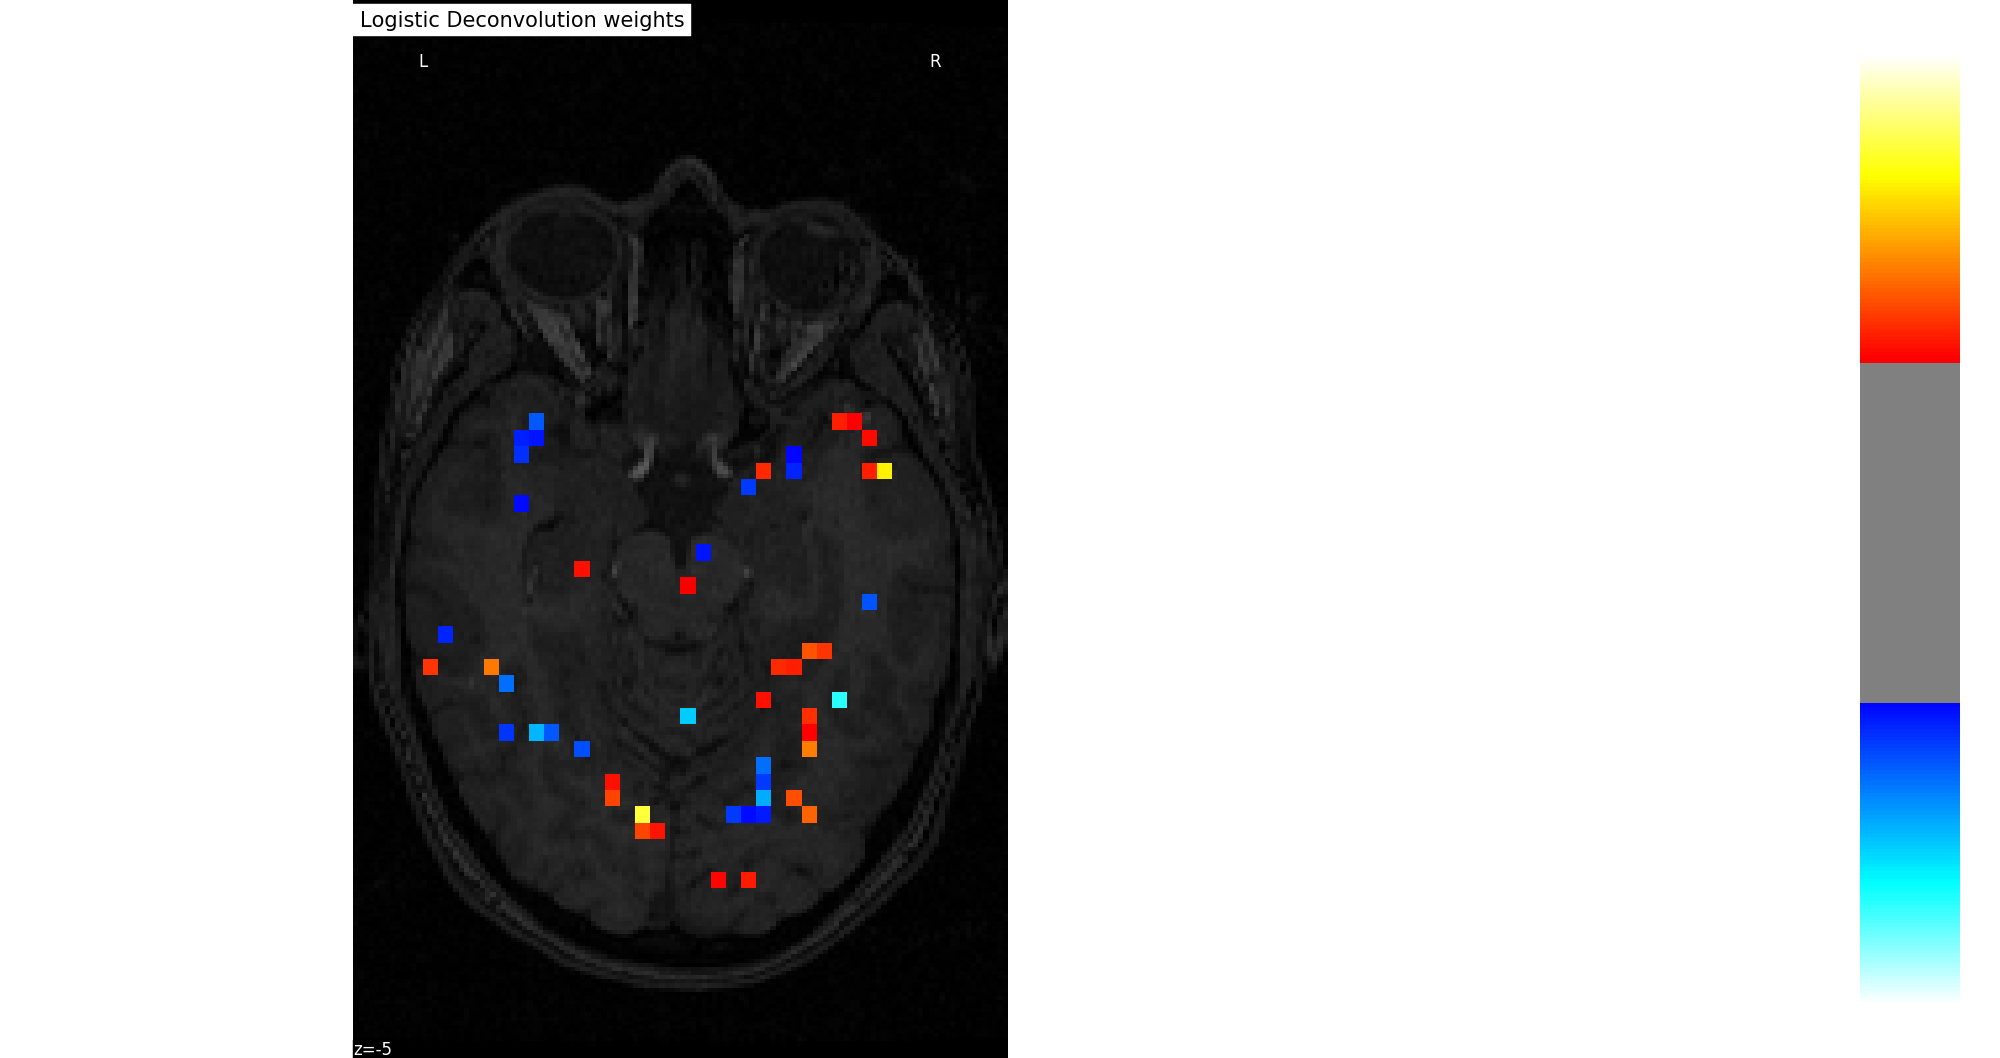
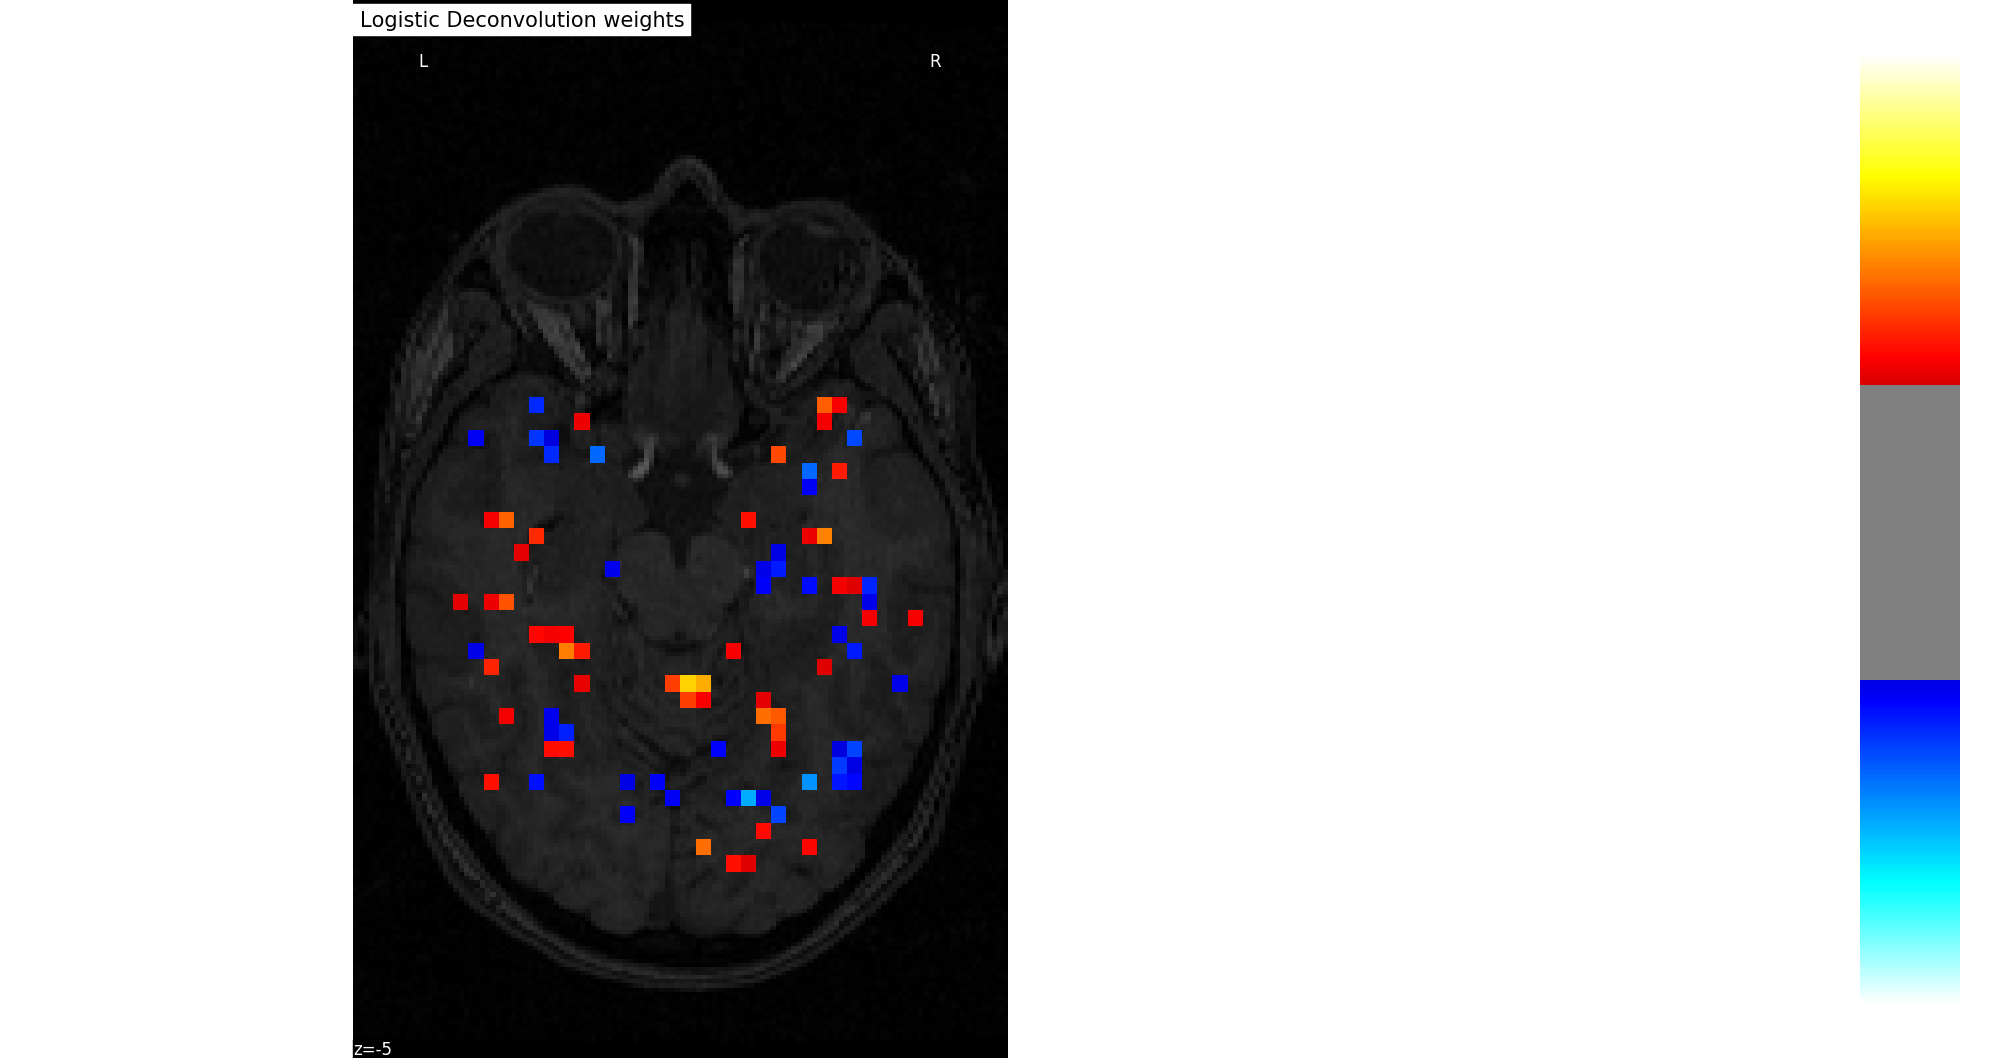
added logistic deconvolution simulation

diff --git a/scripts/activation_maps_haxby_stsvm.py b/scripts/activation_maps_haxby_stsvm.py
@@ -51,7 +51,7 @@ svc_coef = svc.coef_[0]  # 'face' vs. 'house'
 # svc_coef = anova.inverse_transform(svc_coef)
 coef_img = masker.inverse_transform(svc_coef.reshape(10, -1)[1])
 coef_map = coef_img.get_data()
-threshold = np.percentile(np.abs(coef_map), 99)
+threshold = np.percentile(np.abs(coef_map), 98)
 plot_stat_map(coef_img, bg_img=haxby_dataset.anat[0],
               display_mode='z',cut_coords=[-5],
               title=model+" weights", threshold=threshold)
